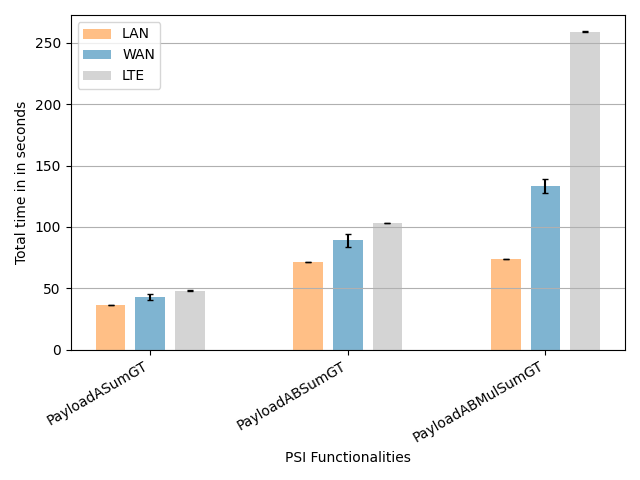
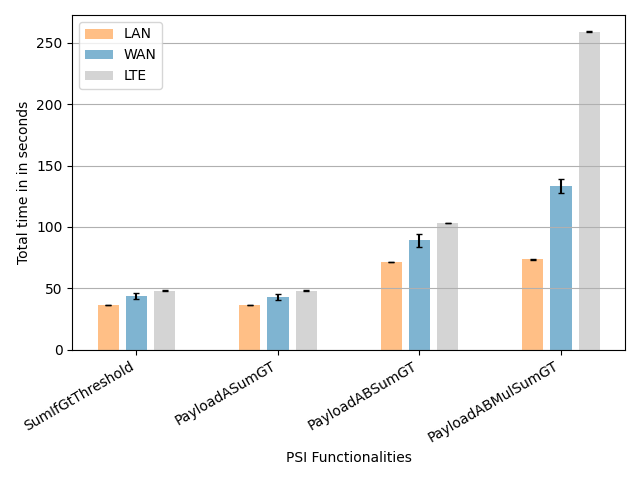
finished network plot with lan data and more circuits. working on time network shares

diff --git a/plot_network.py b/plot_network.py
@@ -39,11 +39,11 @@ def get_tp(data):
 def plot_total_time(datalan, datawan, datalte):
 
     set_sizes_lan, server_means_lan, server_stds_lan, client_means_lan, client_stds_lan = \
-        get_specific_s_c_mean_sd(datalan, 'total_t', server_neles=2**19, parameter='fun_type')
+        get_specific_s_c_mean_sd(datalan, 'total_t', server_neles=2**19, parameter='fun_type', pfilter={'fun_type':[3,5,7,9]})
     set_sizes_wan, server_means_wan, server_stds_wan, client_means_wan, client_stds_wan = \
-        get_specific_s_c_mean_sd(datawan, 'total_t', server_neles=2**19, parameter='fun_type', pfilter={'fun_type': [5, 7, 9]})
+        get_specific_s_c_mean_sd(datawan, 'total_t', server_neles=2**19, parameter='fun_type', pfilter={'fun_type':[3,5,7,9]})
     set_sizes_lte, server_means_lte, server_stds_lte, client_means_lte, client_stds_lte = \
-        get_specific_s_c_mean_sd(datalte, 'total_t', server_neles=2**19 , parameter='fun_type', pfilter={'fun_type': [5, 7, 9]})
+        get_specific_s_c_mean_sd(datalte, 'total_t', server_neles=2**19 , parameter='fun_type', pfilter={'fun_type':[3,5,7,9]})
     x_pos = np.array(set_sizes_lan)
     labels = [Psi_type(i).name for i in set_sizes_lan]
     client_means_lan = client_means_lan/1e3
@@ -59,7 +59,7 @@ def plot_total_time(datalan, datawan, datalte):
                         ecolor='black', capsize=2)
     client_lte = ax.bar(x_pos+0.4, client_means_lte, yerr=client_stds_lte, color=tableau_c10[2], align='center', alpha=0.5, width=0.3,
            ecolor='black', capsize=2)
-    ax.set_ylabel(f"Total time in in seconds")
+    ax.set_ylabel(f"Total time in seconds")
     ax.set_xticks(x_pos)
     # ax.set_title(
     #     f"Client: Total time for Desktop-App with different networks.\nUnbalanced sets with client set size $2^{{{int(np.log2(datalan[0]['parameters']['client_neles']))}}}$ and the basic analytics circuit.\nMean over {len(datalan[0])-1} runs with std-error.")
@@ -76,18 +76,20 @@ def table_time_phases(data):
     table_data = [['Phase'], ['hashing'],['OPRF'], ['Poly int'],
                   ['Poly transm'], ['Poly eval'], ['Circuit'],['Waiting']]
 
-    c_total_t_means = []
+    c_total_t_means = [] # hashing+oprf+ (pint)+(s_ptrans)+polyt + aby_t
     c_hashing_t_means = []
     c_oprf_t_means = []
     c_poly_t_means = []
     c_aby_t_means = []
+    c_aby_bot_t_means = []
 
-    s_total_t_means = []
+    s_total_t_means = []  # hashing+oprf+ poly_t +ptrans+ (peval) + aby_t
     s_hashing_t_means = []
     s_oprf_t_means = []
     s_poly_t_means = []
     s_poly_trans_t_means = []
     s_aby_t_means = []
+    s_aby_bot_t_means = []
     
     for ft in [5]:  # , 7, 9
         for b in data:
@@ -99,6 +101,7 @@ def table_time_phases(data):
                 c_oprf_t = []
                 c_poly_t = []
                 c_aby_t = []
+                c_aby_bot_t = []
 
                 s_total_t = []
                 s_hashing_t = []
@@ -106,6 +109,7 @@ def table_time_phases(data):
                 s_poly_t = []
                 s_poly_trans_t = []
                 s_aby_t = []
+                s_aby_bot_t = []
                 for r in range(len(b)-1):
                     repeat_c = b[r]['c_output']
                     repeat_s = b[r]['s_output']
@@ -114,6 +118,7 @@ def table_time_phases(data):
                     c_oprf_t.append(repeat_c['oprf_t'])
                     c_poly_t.append(repeat_c['poly_t'])
                     c_aby_t.append(repeat_c['aby_total_t'])
+                    c_aby_bot_t.append(repeat_c['aby_baseot_t'])
 
                     s_total_t.append(repeat_s['total_t'])
                     s_hashing_t.append(repeat_s['hashing_t'])
@@ -121,12 +126,14 @@ def table_time_phases(data):
                     s_poly_t.append(repeat_s['poly_t'])
                     s_poly_trans_t.append(repeat_s['poly_trans_t'])
                     s_aby_t.append(repeat_s['aby_total_t'])
+                    s_aby_bot_t.append(repeat_s['aby_baseot_t'])
 
                 c_total_t_means.append(np.mean(c_total_t))
                 c_hashing_t_means.append(np.mean(c_hashing_t))
                 c_oprf_t_means.append(np.mean(c_oprf_t))
                 c_poly_t_means.append(np.mean(c_poly_t))
                 c_aby_t_means.append(np.mean(c_aby_t))
+                c_aby_bot_t_means.append(np.mean(c_aby_bot_t))
 
                 s_total_t_means.append(np.mean(s_total_t))
                 s_hashing_t_means.append(np.mean(s_hashing_t))
@@ -134,6 +141,7 @@ def table_time_phases(data):
                 s_poly_t_means.append(np.mean(s_poly_t))
                 s_poly_trans_t_means.append(np.mean(s_poly_trans_t))
                 s_aby_t_means.append(np.mean(s_aby_t))
+                s_aby_bot_t_means.append(np.mean(s_aby_bot_t))
 
 
                 # aby_d_pct = float(aby_d/total_d)*100.0
@@ -145,31 +153,43 @@ def table_time_phases(data):
                 # column_pct = [ft, oprf_d_pct, poly_d_pct, aby_d_pct]
                 # for i in range(len(table_data)):
                 #     table_data[i].append(f"{column_val[i]:.1f} ({column_pct[i]:.2f}\%)")
-    for i in range(len(s_total_t_means)):
-        print(c_total_t_means[i])
+    for i in range(len(c_total_t_means)):
+        #c_total= hashing+oprf+ (pint)+(s_ptrans)+polyt + aby_t
+        print("client")
+        print(f"{c_hashing_t_means[i]} + {c_oprf_t_means[i]} (pint) (s_ptrans) {c_poly_t_means[i]} + {c_aby_t_means[i]+c_aby_bot_t_means[i]}")
+        print(
+            f"{c_total_t_means[i]}-all = {c_total_t_means[i]-(c_hashing_t_means[i] + c_oprf_t_means[i]+s_poly_t_means[i]+s_poly_trans_t_means[i]+ c_poly_t_means[i] + c_aby_t_means[i]+c_aby_bot_t_means[i])}")
+
+        print("server")
+        print(
+            f"{s_hashing_t_means[i]} + {s_oprf_t_means[i]} + {s_poly_t_means[i]}  +{s_poly_trans_t_means[i]}+ (peval)+ {s_aby_t_means[i]+s_aby_bot_t_means[i]}")
+        print(
+            f"{s_total_t_means[i]}-all = {s_total_t_means[i]-(s_hashing_t_means[i] + s_oprf_t_means[i]+s_poly_t_means[i]+s_poly_trans_t_means[i]+ s_poly_t_means[i] +c_poly_t_means[i]+ s_aby_t_means[i]+s_aby_bot_t_means[i])}")
 
 def plot_total_data(datalan, datawan, datalte):
 
     set_sizes_r_lan, server_means_r_lan, _, client_means_r_lan, _ = \
         get_specific_s_c_mean_sd(
-            datalan, 'total_d_rs',rs='r', server_neles=2**19, parameter='fun_type')
+            datalan, 'total_d_rs', rs='r', server_neles=2 **
+            19, parameter='fun_type', pfilter={'fun_type': [3,5, 7, 9]})
     set_sizes_s_lan, server_means_s_lan, _, client_means_s_lan, _ = \
         get_specific_s_c_mean_sd(
-            datalan, 'total_d_rs', rs='s', server_neles=2**19, parameter='fun_type')
+            datalan, 'total_d_rs', rs='s', server_neles=2 **
+            19, parameter='fun_type', pfilter={'fun_type': [3,5, 7, 9]})
     
     set_sizes_r_wan, server_means_r_wan, _, client_means_r_wan, _ = \
         get_specific_s_c_mean_sd(datawan, 'total_d_rs', rs='r', server_neles=2 **
-                                 19, parameter='fun_type', pfilter={'fun_type': [5, 7, 9]})
+                                 19, parameter='fun_type', pfilter={'fun_type': [3,5, 7, 9]})
     set_sizes_s_wan, server_means_s_wan, _, client_means_s_wan, _ = \
         get_specific_s_c_mean_sd(datawan, 'total_d_rs', rs='s', server_neles=2 **
-                                 19, parameter='fun_type', pfilter={'fun_type': [5, 7, 9]})
+                                 19, parameter='fun_type', pfilter={'fun_type': [3,5, 7, 9]})
 
     set_sizes_r_lte, server_means_r_lte, _, client_means_r_lte, _ = \
         get_specific_s_c_mean_sd(datalte, 'total_d_rs', rs='r', server_neles=2 **
-                                 19, parameter='fun_type', pfilter={'fun_type': [5, 7, 9]})
+                                 19, parameter='fun_type', pfilter={'fun_type': [3,5, 7, 9]})
     set_sizes_s_lte, server_means_s_lte, _, client_means_s_lte, _ = \
         get_specific_s_c_mean_sd(datalte, 'total_d_rs', rs='s', server_neles=2 **
-                                 19, parameter='fun_type', pfilter={'fun_type': [5, 7, 9]})
+                                 19, parameter='fun_type', pfilter={'fun_type': [3,5, 7, 9]})
 
     x_pos = np.array(set_sizes_r_lan)
     labels = [Psi_type(i).name for i in set_sizes_r_lan]
@@ -311,14 +331,13 @@ if __name__ == '__main__':
         batch = load_batch('NetworkDebugging_NewRTTs_LTE')
         get_tp(batch)
     elif args.phases_t:
-        batch_10_LAN = load_batch('Circuits_Unbalanced10', important_parameters=[
-                                  'server_neles', 'fun_type'])
+        batch_10_LAN = load_batch('Network1019_LAN')
         batch_10_WAN = load_batch('Network1019_WAN')
         batch_10_LTE = load_batch('Network1019_LTE')
         table_time_phases(batch_10_LAN)
     elif args.time:
 
-        batch_10_LAN = load_batch('Circuits_Unbalanced10',important_parameters=['server_neles', 'fun_type'])
+        batch_10_LAN = load_batch('Network1019_LAN')
         batch_10_WAN = load_batch('Network1019_WAN')
         batch_10_LTE = load_batch('Network1019_LTE')
         
